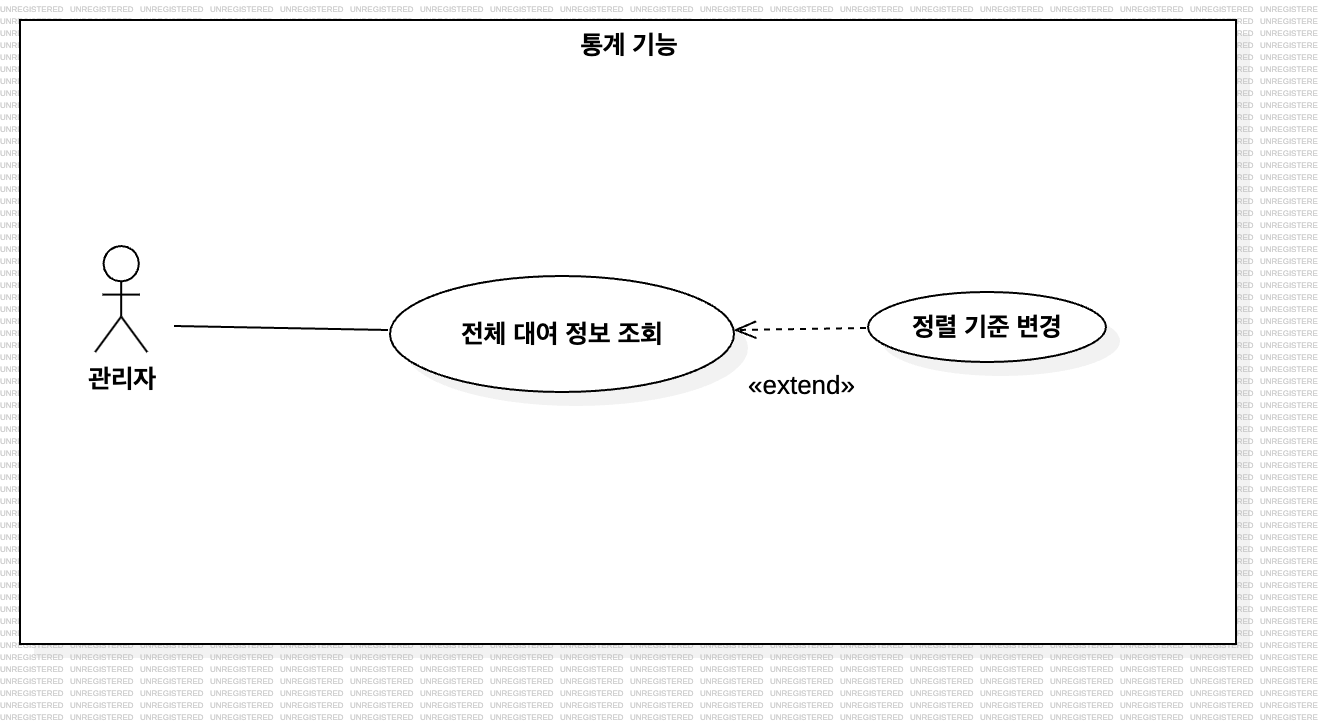
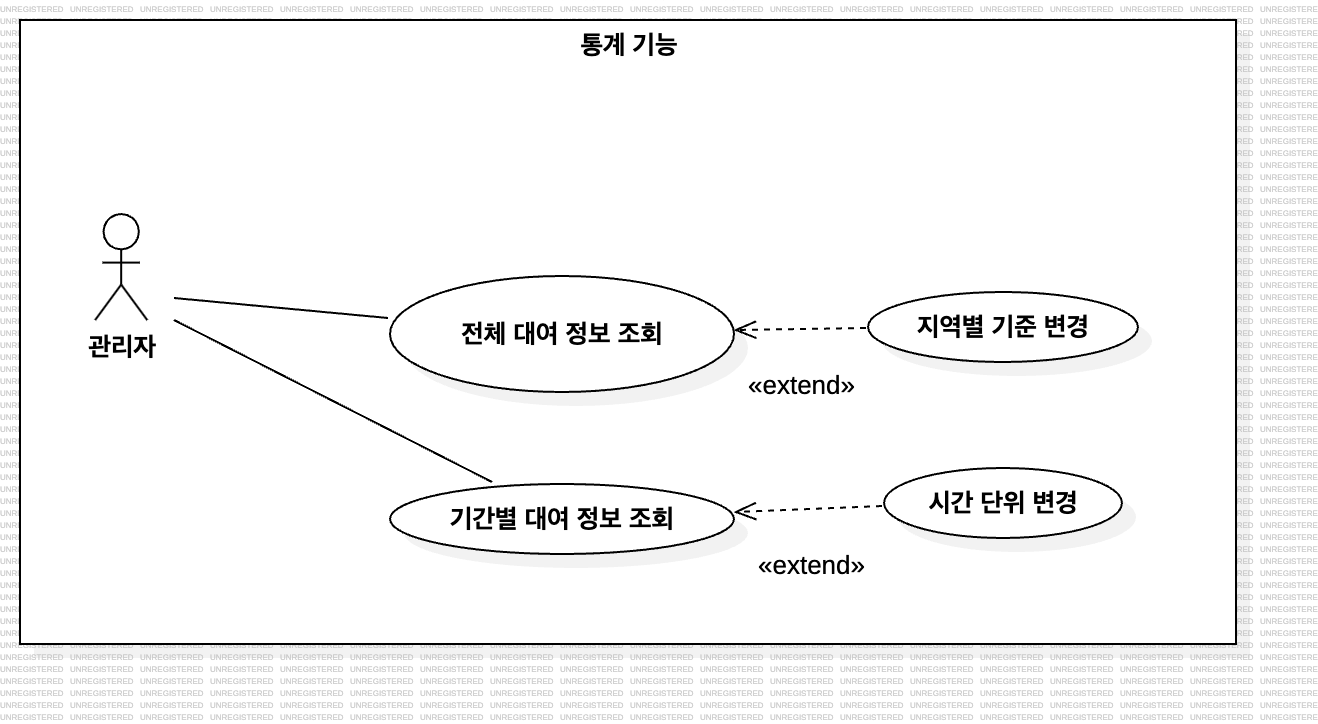
factor : 통계 기능 최종 수정

diff --git a/PeteVoid/petevoid_usecase_description.md b/PeteVoid/petevoid_usecase_description.md
@@ -1,12 +1,13 @@
 [ 전체 대여 정보 조회 UseCase Description ]
 
-| Actor Action                             | System Response                                                                            |
-| ---------------------------------------- | ------------------------------------------------------------------------------------------ |
-| 1. 관리자가 자전거 대여 통계를 조회한다. | 2. 시스템은 반납 시간 기준으로 대여 횟수 및 대여 금액 정보를 최근순으로 정렬하여 출력한다. |
+| Actor Action                                  | System Response                                                          |
+| --------------------------------------------- | ------------------------------------------------------------------------ |
+| 1. 관리자가 자전거 전체 대여 정보를 조회한다. | 2. 시스템은 반납 시간 기준으로 대여 정보를 최근순으로 정렬하여 출력한다. |
+| 3. 관리자가 지역별 정렬을 선택한다.           | 4. 시스템은 지역 기준으로 대여 정보를 정렬하여 출력한다.                 |
 
-[ 정렬 기준 변경 UseCase Description ]
+[ 기간별 대여 정보 조회 UseCase Description ]
 
-| Actor Action                                       | System Response                                                       |
-| -------------------------------------------------- | --------------------------------------------------------------------- |
-| 1. 관리자가 지역별 정렬을 선택한다.                | 2. 시스템은 지역 기준으로 대여 횟수 및 대여 금액을 정렬하여 출력한다. |
-| 3. 관리자가 기간 필터(1주, 1개월, 1년)를 선택한다. | 4. 선택된 기간 동안의 대여 횟수 및 대여 금액을 출력한다               |
+| Actor Action                                         | System Response                                                      |
+| ---------------------------------------------------- | -------------------------------------------------------------------- |
+| 1. 관리자가 자전거 기간별 대여 정보 조회를 선택한다. | 2. 시스템은 1주 기준으로 대여 횟수 및 대여 금액을 정렬하여 출력한다. |
+| 3. 관리자가 기간 필터(1주, 1개월, 1년)를 선택한다.   | 4. 선택된 기간 동안의 대여 횟수 및 대여 금액을 출력한다              |

diff --git a/PeteVoid/petevoid_requirement_list.md b/PeteVoid/petevoid_requirement_list.md
@@ -1,4 +1,4 @@
-| No. | Requirement                                                                                                         | Use Case(s)         |
-| --- | ------------------------------------------------------------------------------------------------------------------- | ------------------- |
-| 10  | 관리자는 자전거 대여 정보를 반납 시간 기준 최근순으로 조회할 수 있다.                                               | 전체 대여 정보 조회 |
-| 11  | 관리자는 대여 정보를 지역벌로 정렬할 수 있고, 최근 1주일, 1개월, 1년 단위로 대여 금액과 대여 횟수를 조회할 수 있다. | 정렬 기준 변경      |
+| No. | Requirement                                                                                                              | Use Case(s)           |
+| --- | ------------------------------------------------------------------------------------------------------------------------ | --------------------- |
+| 10  | 관리자는 자전거 대여 정보를 반납 시간 기준 최근순으로 조회할 수 있다. 원하면 지역별 기준으로 정렬해서 조회할 수 있다.    | 전체 대여 정보 조회   |
+| 11  | 관리자는 기간별 자전거 대여 정보를 조회할 수 있고, 최근 1주일, 1개월, 1년 단위로 대여 금액과 대여 횟수를 조회할 수 있다. | 기간별 대여 정보 조회 |
